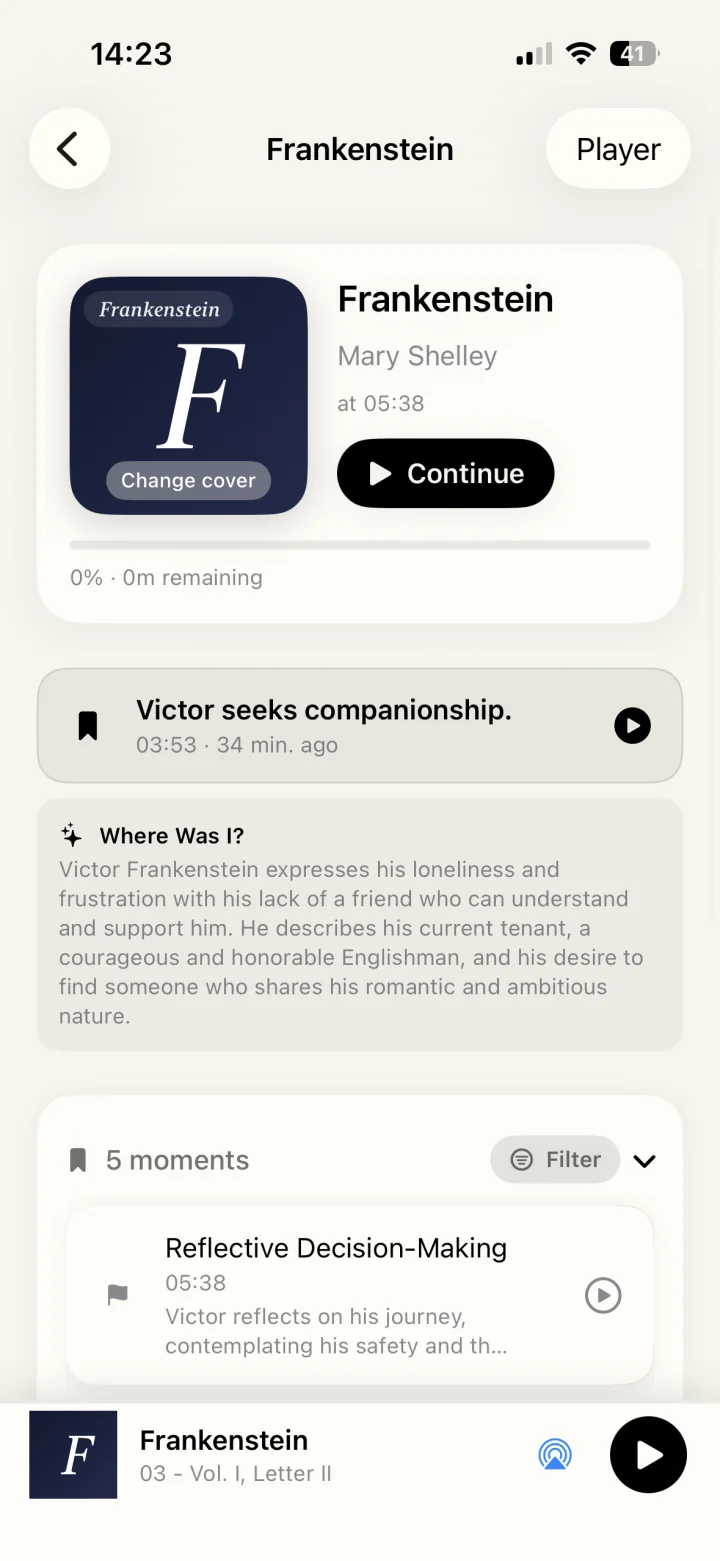
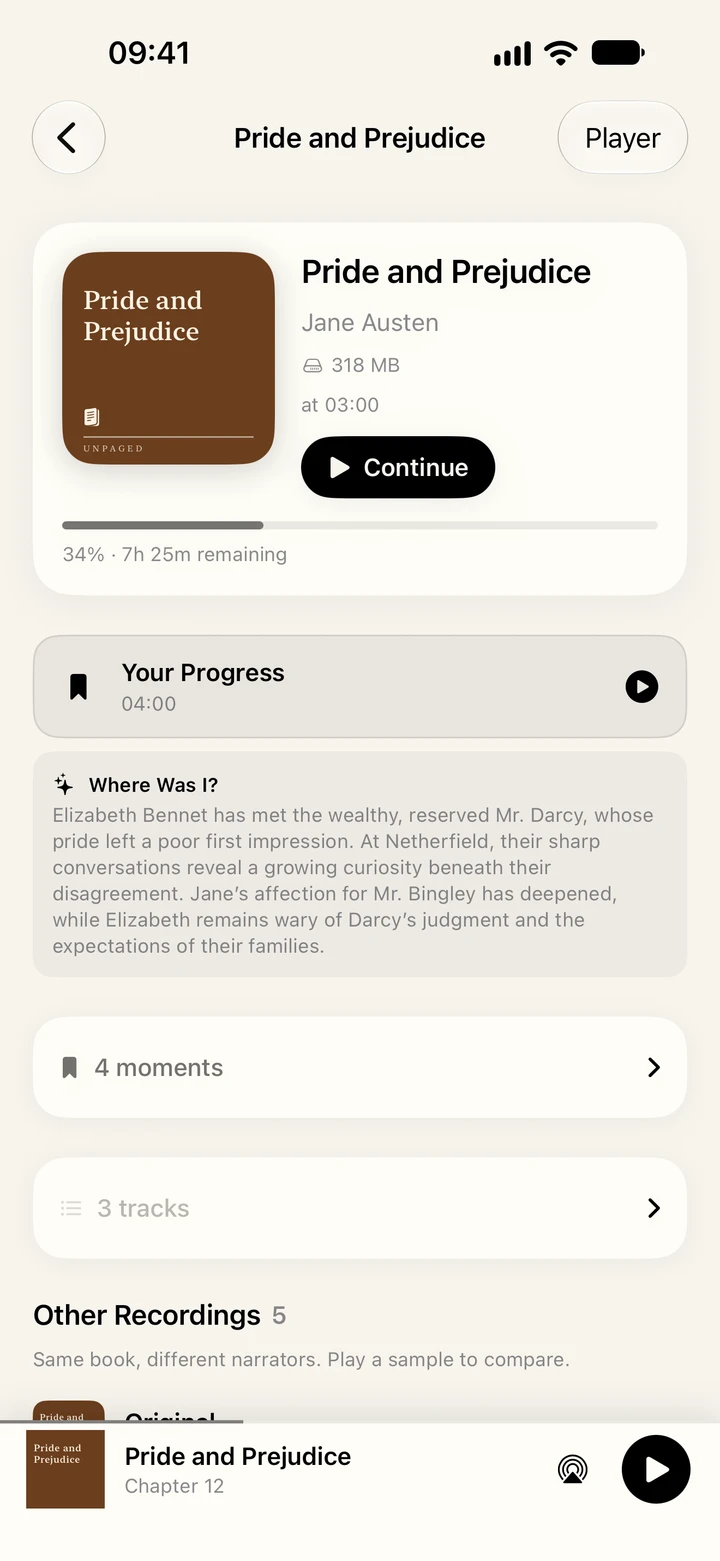
Refresh site screenshots for recordings, recap and stats

diff --git a/site/src/pages/index.html b/site/src/pages/index.html
@@ -47,7 +47,7 @@
     </div>
     <div class="pair">
       <figure><div class="phone"><img src="{{root}}assets/screens/shelves.webp" width="720" height="1565" loading="lazy" decoding="async" alt="Browsing free classics in Shelves: today's pick is The Adventures of Sherlock Holmes, followed by collections and a numbered list of popular classics."></div></figure>
-      <figure><div class="phone"><img src="{{root}}assets/screens/recordings.webp" width="720" height="1561" loading="lazy" decoding="async" alt="The Dracula detail page with a 20-second sample button, download and add-to-library buttons, and other recordings of the same book."></div></figure>
+      <figure><div class="phone"><img src="{{root}}assets/screens/recordings.webp" width="720" height="1561" loading="lazy" decoding="async" alt="The Pride and Prejudice (version 2) page with a 20-second sample button, download and add-to-library buttons, and other recordings of the same book."></div></figure>
     </div>
   </div>
 </section>
@@ -95,7 +95,7 @@
     </div>
     <div class="pair">
       <figure><div class="phone"><img src="{{root}}assets/screens/moment.webp" width="720" height="1565" loading="lazy" decoding="async" alt="Four named moments in Pride and Prejudice, such as “A Truth Universally Acknowledged”, each with its timestamp and a short note."></div></figure>
-      <figure><div class="phone"><img src="{{root}}assets/screens/recap.webp" width="720" height="1561" loading="lazy" decoding="async" alt="The Frankenstein book page with a Where Was I? recap of the story so far and a list of saved moments."></div></figure>
+      <figure><div class="phone"><img src="{{root}}assets/screens/recap.webp" width="720" height="1561" loading="lazy" decoding="async" alt="The Pride and Prejudice book page with a Where Was I? recap of the story so far, saved moments and other recordings."></div></figure>
     </div>
   </div>
 </section>
@@ -117,7 +117,7 @@
         <div><h3>Offline</h3><p>Anything you’ve downloaded plays without a connection.</p></div>
       </div>
     </div>
-    <figure class="solo"><div class="phone"><img src="{{root}}assets/screens/stats.webp" width="720" height="1561" loading="lazy" decoding="async" alt="Reading activity: a heatmap of four months of listening and a total of 92 hours."></div></figure>
+    <figure class="solo"><div class="phone"><img src="{{root}}assets/screens/stats.webp" width="720" height="1561" loading="lazy" decoding="async" alt="Reading activity: a heatmap of four months of listening and a total of 90 hours."></div></figure>
   </div>
 </section>
 
